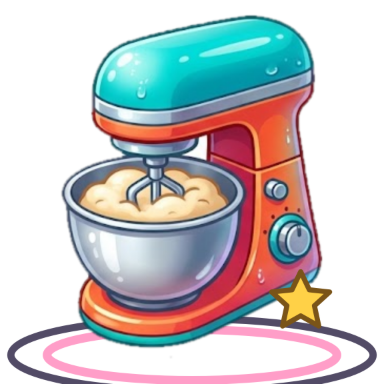
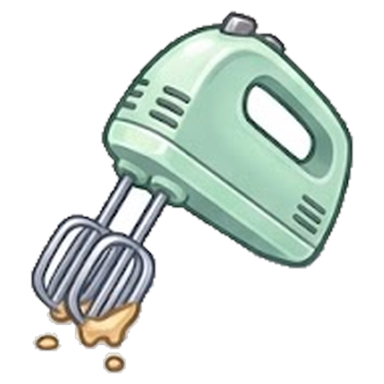
Dessert Mixer evolution line: new art for every level
Each of the Dessert Mixer's 10 levels now has its own picture: candy
jar, cookie dough bowl, hand mixer, cupcake tray, stand mixer, donut
fryer, cotton candy machine, soft-serve machine, chocolate fountain,
and a golden dessert cart. Cut out of the sheet without its white
background, keeping the candy jar's glass and the cart's sparkles. The
art README notes the mixer is no longer built by compose-stations.mjs.

Claude-Session: https://claude.ai/code/session_019pd5Adx9QtfWsyzaTi1pS1

diff --git a/public/art/README.md b/public/art/README.md
@@ -42,18 +42,19 @@ ONLY=gen-bbq,cus-critic node scripts/art/render-art.mjs   # only keys starting w
 
 ### Station art from a single picture
 
-The Bread Oven and the Drink Fountain have their own painted picture for every level, an
-evolution line (the oven from a mixing bowl `gen-oven` to a golden bakery oven `gen-oven-10`,
-the fountain from a water pitcher `gen-fountain` to a golden drink fountain `gen-fountain-10`),
-so don't rebuild them with the script below.
+The Bread Oven, Drink Fountain and Dessert Mixer have their own painted picture for every
+level, an evolution line (the oven from a mixing bowl `gen-oven` to a golden bakery oven
+`gen-oven-10`, the fountain from a water pitcher `gen-fountain` to a golden drink fountain
+`gen-fountain-10`, the mixer from a candy jar `gen-mixer` to a golden dessert cart
+`gen-mixer-10`), so don't rebuild them with the script below.
 
-The other two stations use one painted picture each
+The BBQ Grill still uses one painted picture
 (`scripts/art/station-src/<id>.png`, transparent background). All 10 levels are built
 from it by adding the game's own level decorations around it:
 
 ```bash
 npm run dev    # in another terminal
-node scripts/art/compose-stations.mjs http://localhost:5173/ mixer bbq
+node scripts/art/compose-stations.mjs http://localhost:5173/ bbq
 ```
 
 ### Restaurant rooms
